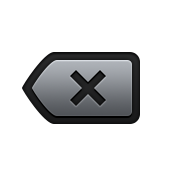
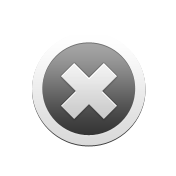
[Finishes #64129080]

Changed region(s): [[0.1136, 0.2273, 0.8239, 0.8523], [0.8239, 0.483, 0.8523, 0.5398]]

diff --git a/teacherPal/SchoolBusPhoto/SchoolBusPhoto/GKFilterViewController.m b/teacherPal/SchoolBusPhoto/SchoolBusPhoto/GKFilterViewController.m
@@ -112,8 +112,8 @@
         
         
         
-        controlImgV = [[UIImageView alloc] initWithFrame:CGRectMake(0, 0, 128, 128)];
-        controlImgV.image = [UIImage imageNamed:@"play.png"];
+        controlImgV = [[UIImageView alloc] initWithFrame:CGRectMake(0, 0, 300, 300)];
+        controlImgV.image = [UIImage imageNamed:@"movieplay.png"];
         controlImgV.center = player.view.center;
         controlImgV.hidden = YES;
         controlImgV.userInteractionEnabled = YES;
@@ -199,8 +199,8 @@
         // 显示大图
         
         UIButton *backBtn = [UIButton buttonWithType:UIButtonTypeCustom];
-        [backBtn setImage:[UIImage imageNamed:@"box-3.png"] forState:UIControlStateNormal];
-        [backBtn setFrame:CGRectMake(0, 0, 45, 45)];
+        [backBtn setImage:[UIImage imageNamed:@"X.png"] forState:UIControlStateNormal];
+        [backBtn setFrame:CGRectMake(0, 0, 40, 40)];
         [backBtn setCenter:CGPointMake(45, 50)];
         [backBtn addTarget:self action:@selector(dismissViewController:) forControlEvents:UIControlEventTouchUpInside];
         [self.view addSubview:backBtn];
@@ -483,7 +483,7 @@
 
 - (void)requestFinishedThumbnailImage:(NSNotification *)notification
 {
-    NSLog(@" MPMoviePlayerThumbnailImageRequestDidFinishNotification : %@",notification);
+//    NSLog(@" MPMoviePlayerThumbnailImageRequestDidFinishNotification : %@",notification);
     
     UIImage *image =[notification.userInfo objectForKey: @"MPMoviePlayerThumbnailImageKey"];
     self.movieThumbnail = image;

diff --git a/teacherPal/SchoolBusPhoto/SchoolBusPhoto/GKSendMediaViewController.m b/teacherPal/SchoolBusPhoto/SchoolBusPhoto/GKSendMediaViewController.m
@@ -84,7 +84,7 @@
     [presetBtn setFrame:thumbImgV.frame];
     if (self.moviePath != nil)
     {
-        [presetBtn setImage:nil forState:UIControlStateNormal];
+        [presetBtn setImage:[UIImage imageNamed:@"moviepresetplay.png"] forState:UIControlStateNormal];
     }
     [presetBtn addTarget:self action:@selector(presetMedia:) forControlEvents:UIControlEventTouchUpInside];
     [self.view addSubview:presetBtn];
